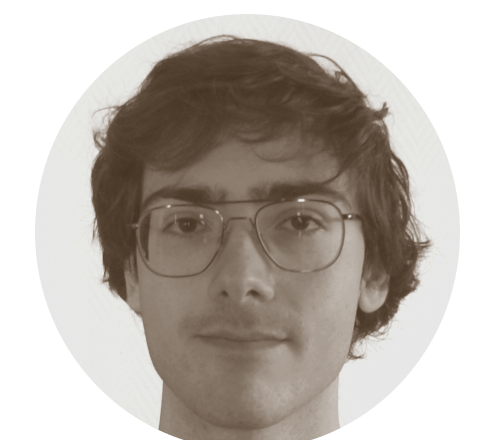
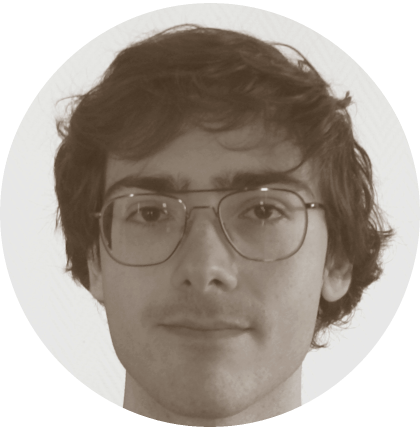
Updated about page, Update aboud page image. Remove contribution title from proffesionalwork

diff --git a/about.html b/about.html
@@ -29,12 +29,12 @@
             </div> 
 
             <div class="CCenteredSmallImageDiv">
-                <img src="source/images/jsv.png" width="225" height="200" id="me">
+                <img src="source/images/jsv.png" width="225" height="225" id="me">
             </div>  
             <div class="CCenteredSmallDiv">
                 <p>
                     <br>
-                    Contact: akigonzalez@outlook.com<br>
+                    Contact: <a href = "mailto: akigonzalez@outlook.com">akigonzalez@outlook.com</a>
                 </p>
             </div> 
 
@@ -44,14 +44,19 @@
             <div class="CCenteredSingleDiv">
                 <h3>About me</h3>
                 <p>
-                    Video games have been a large part of my life ever since I got a Gameboy Advance as a kid. Curiosity about what goes on behind the scenes and the desire to be a part of creating experiences
-                    is what has brought me into game development.
                     
-                    <br><br> 
-                    Graduated from The Game Assembly in Stockholm in April 2022 after finishing a 7 month internship at Zenz VR.
-                    Recently released a game, Wings 1941 [Meta Quest 2] while working at Ztar Games (formerly Zenz VR).       
-                    Both during my time at The Game Assembly and at Zenz VR I've been a generalist programmer. 
-                    I have knowledge of C++ and C#, experience with development in Unity and custom engines as well as working in small cross-disciplinary teams.
+                    Recently released a game, <a href="professionalwork.html">Wings 1941</a> for the Quest 2, while working at Ztar Games as a Generalist Programmer in Unity.
+                    Studied at The Game Assembly Stockholm where I was part of 8 <a href="thegameassembly.html"></a>smaller game projects</a> consisting of level designers, artists and programmers, working primarily in C++ in The Game Assembly's custom engine
+                    and in the second year on an engine written by the project group I was a part of.<br>
+                    Working in interdisciplinary teams is some of the most fun I've had, and I believe that is the best way to solve problems and where ideas and creativity thrive.
+                    I do my best to take feedback to heart and want to grow along with those I work with.
+
+                    <br><br>
+                    Video games have been a large part of my life ever since I got a Gameboy Advance as a kid. With every title that I played my curiosity over how games are created grew,
+                    now I hope to get the opportunity to work on projects that can bring the same sense of wonder and curiosity to others. 
+                    
+                    <br><br>
+                    Looking for work.
                 </p>
             </div>
 

diff --git a/professionalwork.html b/professionalwork.html
@@ -57,7 +57,6 @@
                     <li>Platforms: &emsp;&nbsp;&nbsp;&nbsp;Meta Quest 2</li>
                 </ul>
                 <br>
-                <h3>Contributions</h3>
                 <p>
                     Generalist programmer working in C#. My work on the game began during my internship at Zenz VR in August 2021, where I worked under the lead programmer and with the game designers
                     to implement various features and systems for gameplay, network and UI. <br>
